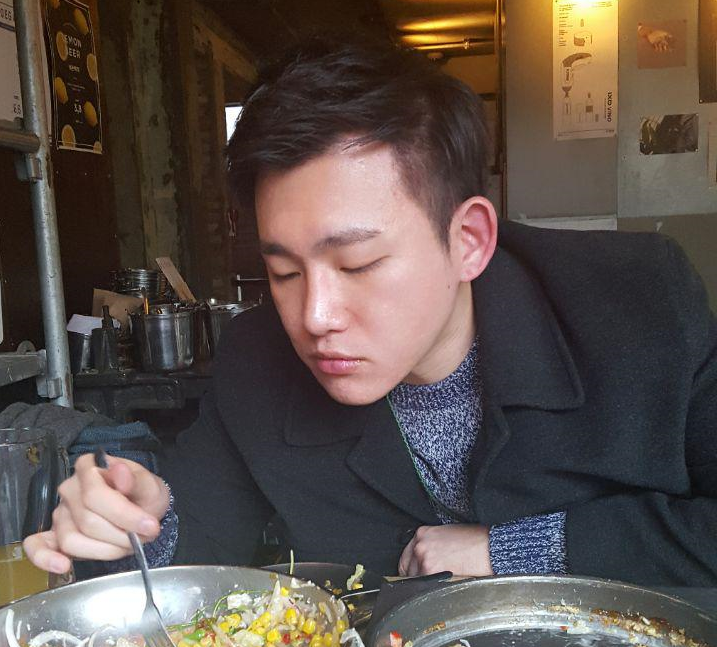
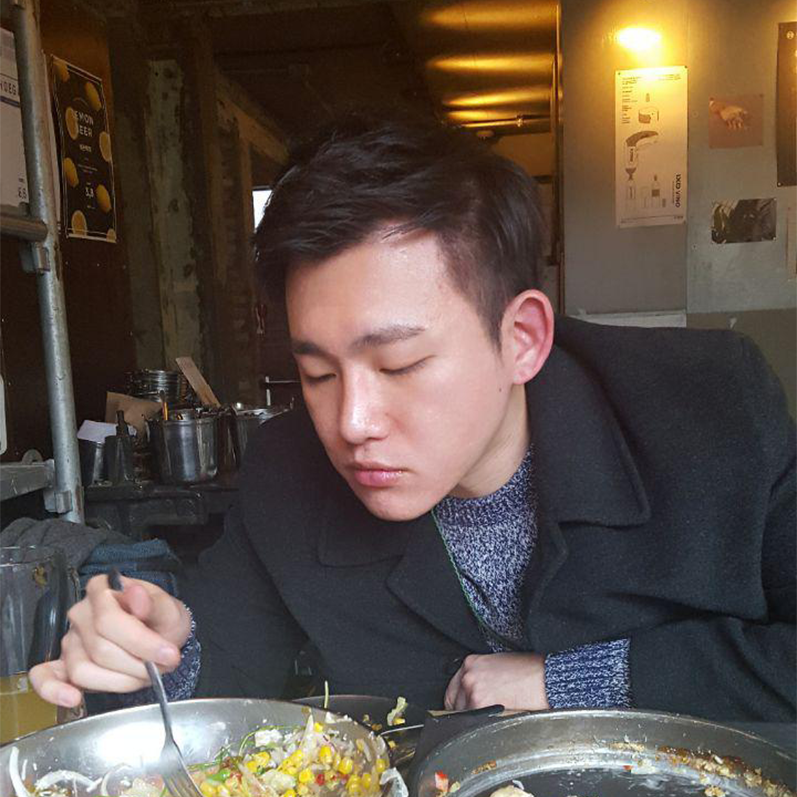
homepage develop
1. images upload & update
2. namecard_div update

diff --git a/index.html b/index.html
@@ -48,7 +48,8 @@
             <img class="balloon sub_balloon" id="small_balloon" src="image/background/small_balloon.PNG" alt="small_balloon">
           </div>
           <div class="col-lg-6 nopadding">
-            <img class="profile_img" id="main_img" src="image/ksh/profile_img_05.PNG" alt="profile_image">
+            <img class="profile_img main_img" id="main_img_first" src="image/ksh/profile_img_11.PNG" alt="profile_image">
+            <img class="profile_img main_img" id="main_img_second" src="image/ksh/profile_img_12.PNG" alt="profile_image">
           </div>
         </div>
       </div> 
@@ -58,7 +59,12 @@
       <div class="container">
         <div class="row">
           <div class="col-lg-6">
-            <img class="profile_img" id="profile_div_img" src="image/ksh/profile_img_01.PNG">
+            <div id="groot_div text-center">
+              <img class="profile_img profile_div_img" id="groot_mini" src="image/ipad_picture/groot_mini.PNG">
+              <img class="profile_img profile_div_img" id="groot_baby" src="image/ipad_picture/groot_baby.PNG">
+              <img class="profile_img profile_div_img" id="groot_boy" src="image/ipad_picture/groot_boy.PNG">
+              <img class="profile_img profile_div_img" id="groot_man" src="image/ipad_picture/groot_man.PNG">
+            </div>
           </div>
           <div class="col-lg-6">
             <div id="profile_ment_div">
@@ -72,10 +78,35 @@
         </div>
       </div>
     </div>
+
+    <div class="row" id="namecard_div">
+      <div class="container">
+        <div class="row">
+          <div class="col-lg-6 order-2 order-lg-1">
+            <div id="namecard_ment_div">
+              <h2 id="profile"> profile</h2>
+              <h4>name</h4>
+              <p>김상훈, Kion</p>
+              <h4>birth</h4>
+              <p>1990.08.07</p>
+              <h4>address</h4>
+              <p>Seoul, Korea</p>
+              <h4>email</h4>
+              <p>kion1491@gmail.com</p>
+              <a href="https://www.facebook.com/profile.php?id=100009221086945" target="_blank"><img class="sns_icon" src="image/sns/facebook_icon.png" alt="kion_facebook"></a>
+              <a href="https://www.instagram.com/kion_kim/" target="_blank"><img class="sns_icon" src="image/sns/instagram_icon.png" alt="kion_instagram"></a>
+            </div>
+          </div>
+          <div class="col-lg-6 order-1 order-lg-2 text-center">
+            <img class="profile_img namecard_div_img" id="namecard_img" src="image/ksh/profile_img_02.PNG">
+          </div>
+        </div>
+      </div>
+    </div>
     
   </div>
   <script src="https://ajax.googleapis.com/ajax/libs/jquery/3.1.1/jquery.min.js"></script>
-
   <script src="js/jquery.js" type="text/javascript"></script>
+  <script src="js/main.js" type="text/javascript"></script>
 </body>
 </html>

diff --git a/css/main.css b/css/main.css
@@ -16,13 +16,16 @@
     background-color: #41969c;
 }
 
-#main_img{
-    margin-right: 0;
+.main_img{
     animation-name: words, imgfloat;
     animation-iteration-count: 1,infinite;
     animation-duration: 0.7s,2s;
     animation-delay: 0.1s, 1s;
     animation-direction: normal, alternate;
+}
+
+#main_img_second{
+    display: none;
 }
 
 #balloon_div{
@@ -196,14 +199,32 @@
     font-size: 3em;
 }
 
-#profile_div_img{
+.profile_div_img{
+    bottom: 0.7em;
     position: absolute;
-    line-height: 0;
-    bottom: 0;
+    left:50%;
+    transform:translateX(-50%);
 }
+
+#groot_mini{
+    width: 40%;
+}
+
+#groot_baby{
+    width: 60%;
+}
+
+#groot_boy{
+    width: 80%;
+}
+
 
 #profile_ment_div{
     height: 40rem;
+}
+
+#profile{
+    margin-bottom: 1em;
 }
 
 .profile_ment{
@@ -251,4 +272,64 @@
     animation-iteration-count: infinite;
     animation-timing-function: linear;
     animation-direction: alternate;
+}
+
+
+/*
+
+ 03. namecard_div
+
+*/
+
+#namecard_div{
+    padding: 5em 0em;
+}
+
+.namecard_div_img {
+    width: 90%;
+    border-radius: 50%;
+    -webkit-border-radius: 50%;
+    -moz-border-radius: 50%;
+    box-shadow: 0 0 18px #000;
+    -webkit-box-shadow: 0 0 18px #000;
+    -moz-box-shadow: 0 0 18px #000;
+    margin: 0.5em auto;
+}
+
+#profile:before{
+    content: '';
+    width: 12px;
+    height: 12px;
+    background: #1e4e7c;
+    display: inline-block;
+    margin-right: 10px;
+    text-indent: -12px;
+    border-radius: 12px;
+}
+
+#namecard_ment_div{
+    position: absolute;
+    width: 10em;
+    height: 22em;
+    top: 0;
+    bottom: 0;
+    left: 0;
+    right: 0;
+    margin: auto;
+}
+
+.sns_icon{
+    width: 2em;
+    animation-name: textshine, textbizside;
+    animation-duration: 2s, 1s;
+    animation-iteration-count: infinite;
+    animation-timing-function: linear;
+    animation-direction: alternate;
+}
+
+.sns_icon:hover{
+    animation-name: words,wordsrepeat;
+    animation-iteration-count: 1,infinite;
+    animation-duration: 0.7s,3s;
+    animation-fill-mode: forwards,forwards;
 }

diff --git a/css/media.css b/css/media.css
@@ -4,14 +4,14 @@
 	    width: 1.8em;
 	    margin: 0;
 	    top: 87%;
-	    right: 11em;
+	    right: 12em;
 	}
 
 	#small_balloon{
 	    width: 0.8rem;
 	    margin: 0;  
-	    top: 98%;
-	    right: 12.5em;
+	    top: 96%;
+	    right: 11em;
 	}
 	
 	#skill_div{
@@ -93,7 +93,7 @@
 	    width: 1.5rem;
 	    margin: 0;  
 	    top: 98%;
-	    right: 20.5em;
+	    right: 15.5em;
 	}
 
 	.main_skill{
@@ -121,12 +121,6 @@
 
 /* Medium devices (tablets, 768px and up) */
 @media (min-width: 768px) and (max-width: 991.98px) {
-	#middle_balloon{
-	    width: 4.5em;
-	    margin: 0;
-	    top: 87%;
-	    right: 30em;
-	}
 
 	#profile_ment_div{
 	    width: 70%;
@@ -134,11 +128,18 @@
 	    position: relative;
 	}
 
+	#middle_balloon{
+	    width: 4.5em;
+	    margin: 0;
+	    top: 87%;
+	    right: 30em;
+	}
+
 	#small_balloon{
 	    width: 2rem;
 	    margin: 0;  
 	    top: 100%;
-	    right: 33em;
+	    right: 28em;
 	}
 
 	#skill_div{
@@ -201,8 +202,37 @@
 /* Extra large devices (large desktops, 1200px and up) */
 
 @media (max-width: 991.98px){
-	#profile_div_img{
+	.profile_div_img{
 		display: none;
+	}
+
+	#namecard_ment_div{
+		margin-top: 10%;
+		margin-bottom: 10%;
+		width: 20em;
+		height: 13em;
+		text-align: center;
+	}
+
+	#namecard_ment_div>h4,p{
+		display: inline;
+	}
+	
+	#namecard_ment_div>p:after{
+		content: '';
+		display: block;
+	}
+
+	.sns_icon{
+		margin-top: 1em;
+	}
+
+	#main_img_first{
+		display: none;
+	}
+
+	#main_img_second{
+	    display: block;
 	}
 }
 

diff --git a/js/main.js b/js/main.js
@@ -1,0 +1,15 @@
+var profileImgArray = ['02.PNG', '08.PNG', '10.PNG'];
+
+function changeImg(imgId, imgRoute, imgArray){
+	var namecardDivImg = document.getElementById(imgId);
+	var imgIndex = 0;
+	namecardDivImg.setAttribute("src", imgRoute+imgArray[imgIndex]);
+	imgIndex++;
+	if (imgIndex>=imgArray.length) {
+		imgIndex=0;
+	}
+};
+
+var profileSlider = changeImg('namecard_img', "image/ksh/profile_img_", profileImgArray);
+
+setInterval(profileSlider, 500);
